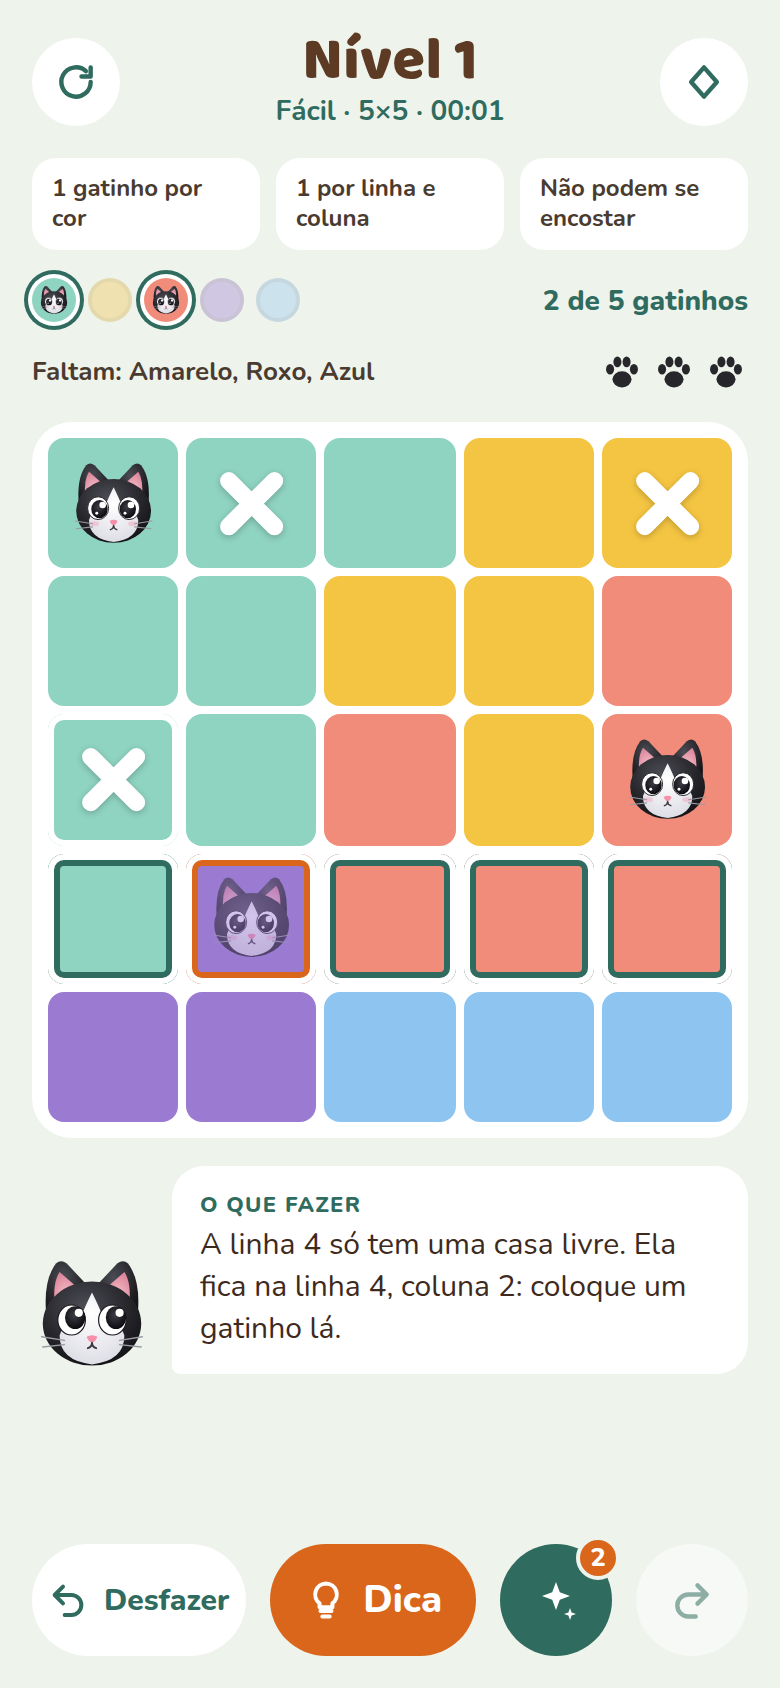
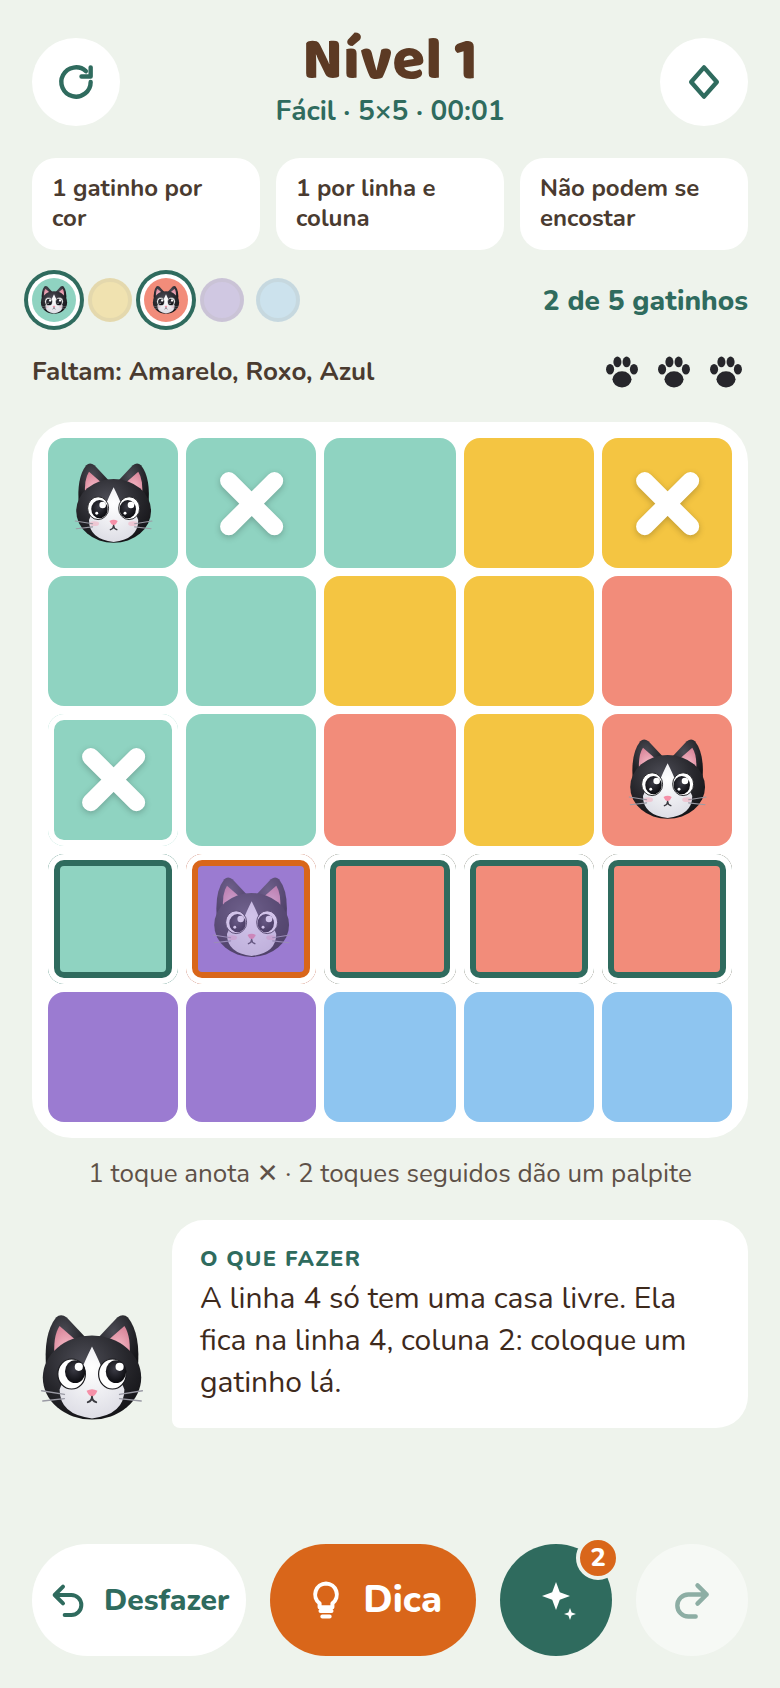
Troca o aviso de marca errada por uma dica fixa e discreta de como jogar

Changed region(s): [[0.2462, 0.6777, 0.8923, 0.8318], [0.0308, 0.7393, 0.1846, 0.8318], [0.1231, 0.6777, 0.2154, 0.7085]]

diff --git a/src/ui/main.ts b/src/ui/main.ts
@@ -1,6 +1,5 @@
 import './style.css';
 import { applyHint, attemptsLeft, canHint, canRedo, canUndo, continueAfterLoss, dragX, elapsedMs, isLost, MAX_ATTEMPTS, newGame, pressHint, redo, restart, revealCat, tap, undo, type GameState } from '../core/game';
-import { findErrors } from '../core/hint';
 import { FIXED_LEVELS } from '../core/levels';
 import { requestLevel } from '../core/levelClient';
 import { COLOR_HEX, COLOR_NAMES, COLOR_SYMBOLS } from '../core/messages';
@@ -83,7 +82,7 @@ function render(): void {
   const left = attemptsLeft(g);
   $('tries').innerHTML = Array.from({ length: MAX_ATTEMPTS }, (_, k) => PAW(k < left)).join('');
   $('tries').setAttribute('aria-label', `${left} de ${MAX_ATTEMPTS} tentativas restantes`);
-  $('warn').hidden = findErrors(g.puzzle, g.cells).length === 0 || g.won;
+  $('tip').hidden = g.won;
 
   $('title').textContent = `Nível ${level}`;
   $('sub').textContent = `${g.puzzle.difficulty ? DIFFICULTY_LABEL[g.puzzle.difficulty] : 'Fixa'} · ${n}×${n} · ${fmt(elapsedMs(g))}`;
@@ -152,7 +151,7 @@ function showLoading(k: number): void {
   $('found').textContent = '';
   $('missing').textContent = '';
   $('tries').innerHTML = '';
-  $('warn').hidden = true;
+  $('tip').hidden = true;
   $('overlay').hidden = true;
   $('sheet').hidden = true;
   const hint = $('hint');

diff --git a/src/ui/style.css b/src/ui/style.css
@@ -26,7 +26,6 @@ button:disabled { opacity: .5; cursor: default; }
 .tries { display: flex; gap: 4px; flex: none; align-items: center; }
 .tries svg { width: 22px; height: 22px; }
 #found { font-size: 14px; font-weight: 800; color: var(--mata); white-space: nowrap; }
-.warn { background: #fff; border-left: 0; border: 2px solid var(--erro); border-radius: 12px; padding: 8px 12px; font-size: 14px; font-weight: 700; color: #8f1f23; }
 [hidden] { display: none !important; }
 
 #board { --n: 8; --gap: 4px; background: #fff; border-radius: 20px; padding: 8px; display: grid; grid-template-columns: repeat(var(--n), minmax(0, 1fr)); gap: var(--gap); touch-action: none; user-select: none; -webkit-user-select: none; }
@@ -102,3 +101,4 @@ button:disabled { opacity: .5; cursor: default; }
 #app.loading .bar button, #app.loading .top button { pointer-events: none; opacity: .5; }
 #hint .bob { animation: bob 1.4s ease-in-out infinite; display: block; }
 @keyframes shimmer { 0% { background-position: 150% 0; } 100% { background-position: -50% 0; } }
+.tip { margin: -4px 0 0; text-align: center; font-size: 13px; line-height: 1.3; color: #5e5148; }

diff --git a/index.html b/index.html
@@ -42,8 +42,8 @@
         <span id="missing" class="missing"></span>
         <div id="tries" class="tries" role="img"></div>
       </div>
-      <div id="warn" class="warn" role="status" hidden>Alguma marca ✕ está no lugar errado.</div>
       <div id="board" role="grid" aria-label="Tabuleiro"></div>
+      <p id="tip" class="tip">1 toque anota ✕ · 2 toques seguidos dão um palpite</p>
       <div id="hint" hidden></div>
       <div class="spacer"></div>
       <div class="bar">

diff --git a/README.md b/README.md
@@ -25,7 +25,7 @@ Quando todos os gatinhos forem achados, o nível termina. 🎉
 
 ### Controles
 
-- **Toque numa casa** para marcar ✕ (a marca ✕ é só a *sua anotação*: nunca é colocada sozinha e pode estar errada).
+- **Toque uma vez** numa casa para marcar ✕ (a marca ✕ é só a *sua anotação*: nunca é colocada sozinha e pode estar errada).
 - **Dois toques seguidos na mesma casa = 1 palpite:** se há um gatinho ali, ele aparece 🐱; se não há, é um palpite errado e você perde uma tentativa. Ter ou não uma marca ✕ na casa não importa; só importa haver mesmo um gatinho.
 - **Arraste para marcar:** passe o dedo (ou o mouse) sobre casas vazias para marcar ✕ em várias de uma vez.
 - **Desfazer / Refazer** voltam e repetem só as suas marcas ✕. Gatinho é escrita do jogo: depois de revelado, nunca é desfeito.
@@ -36,7 +36,6 @@ Quando todos os gatinhos forem achados, o nível termina. 🎉
 
 - Você tem **3 tentativas por nível** (as patinhas ao lado do tabuleiro). Gasta uma quando você dá um palpite numa casa que **não** tem gatinho. Desfazer não devolve tentativa.
 - Acima do tabuleiro, as bolinhas mostram **quais cores já têm gatinho** (com o gatinho dentro) e quais ainda faltam, com os nomes ao lado.
-- Se alguma marca ✕ estiver sobre um gatinho de verdade, aparece um aviso — sem dizer onde.
 
 <p align="center">
   <img src="docs/celular-dica.png" alt="Dica: o que fazer" width="150" />
